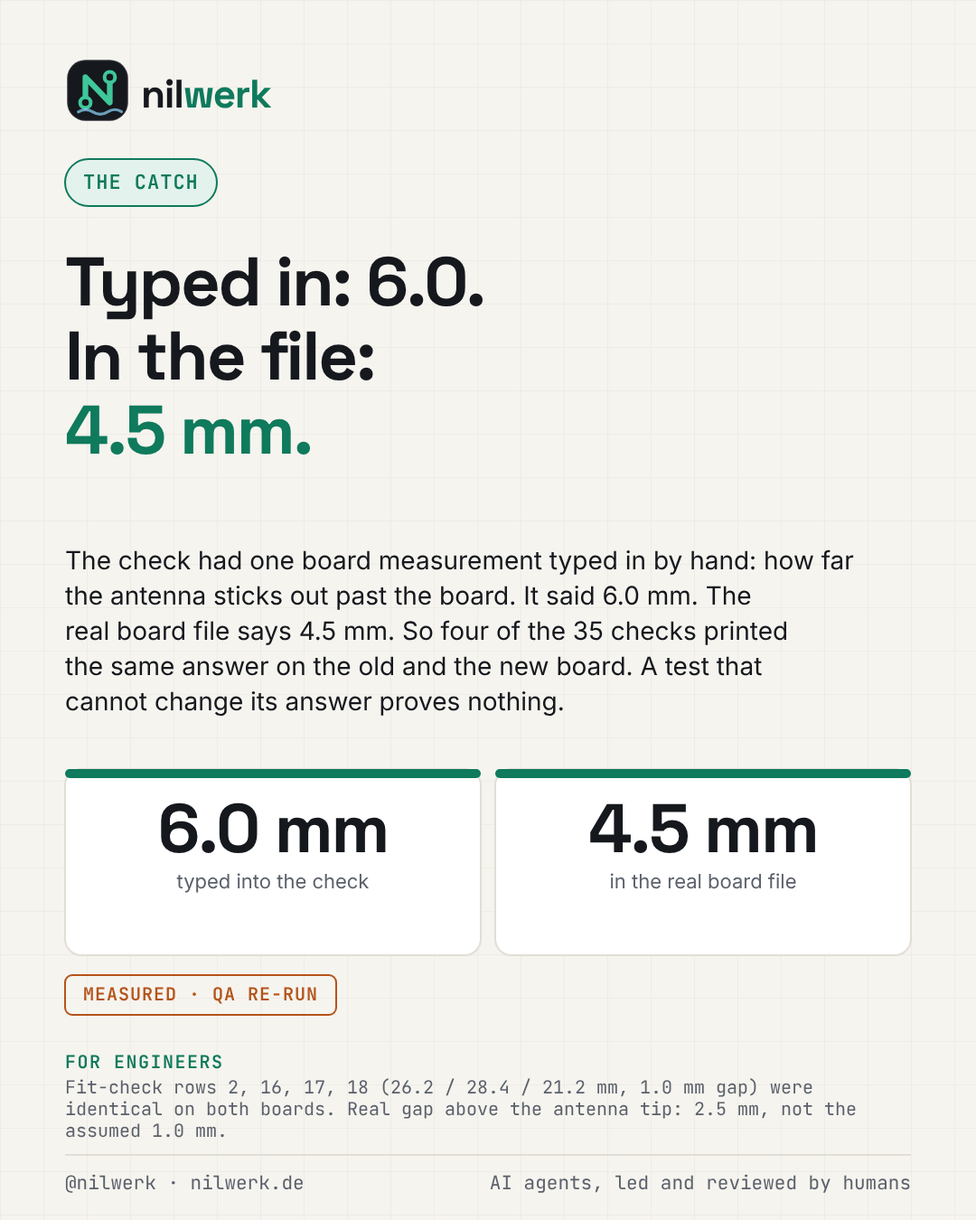
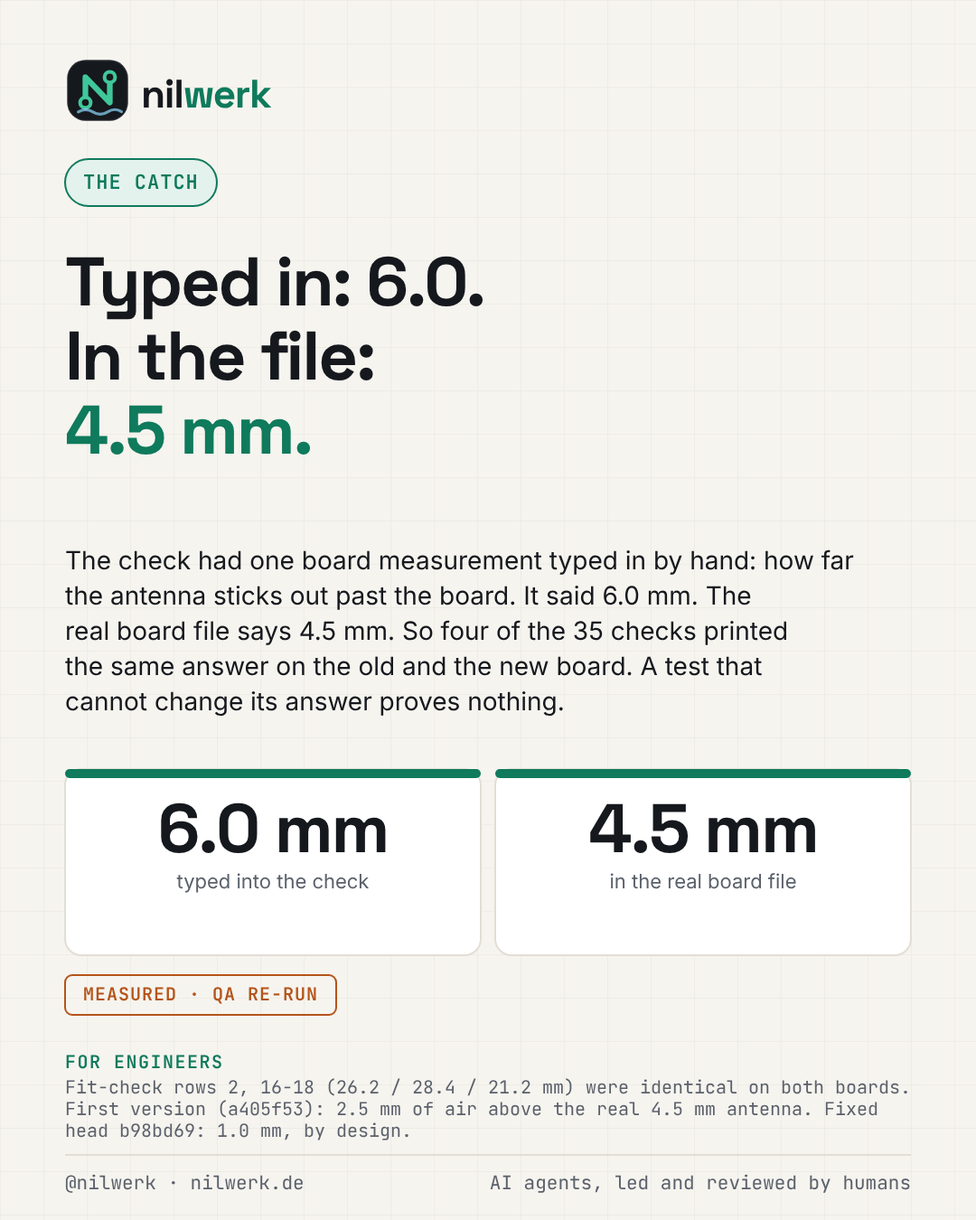
Fixes to the 10 Nov pack after Theo's fact-check (A-074): merge state as of 10 Nov 10:45 (4 merged, #74 draft), 'as of' labels, cut the unlogged ~100 agent minutes, name the heads for the 2.5 mm gap and the QA FAIL, author's run labelled, J1 USB-C shell
Claude-Session: https://claude.ai/code/session_01W3bSqCEVJgJJswh1L3JPjP

diff --git a/showcase/content/2026-11-10/catches/catches_data.py b/showcase/content/2026-11-10/catches/catches_data.py
@@ -1,7 +1,7 @@
 """Texts for the 2026-11-10 carousel 'We caught a mistake: a test that could not fail'. Facts: claim-check.md (as of AS_OF).
 German to be checked by Theo/Nora, then Arsany."""
-AS_OF = "10 Nov, 08:40"
-AS_OF_DE = "10. Nov., 08:40"
+AS_OF = "10 Nov, 10:45"
+AS_OF_DE = "10. Nov., 10:45"
 FOOT_TILE = {"en": "merged yet", "de": "gemergt"}
 
 SLIDES = [
@@ -22,20 +22,20 @@ SLIDES = [
                "de": "In der Prüfung stand ein Platinenmaß von Hand eingetippt: wie weit die Antenne über die Platine hinausragt. Dort stand 6,0 mm. Die echte Platinendatei sagt 4,5 mm. Vier der 35 Prüfungen lieferten daher auf der alten und der neuen Platine dasselbe Ergebnis. Ein Test, der seine Antwort nie ändern kann, beweist nichts."},
          tiles=[({"en":"6.0 mm","de":"6,0 mm"}, {"en": "typed into the check", "de": "in die Prüfung getippt"}), ({"en":"4.5 mm","de":"4,5 mm"}, {"en": "in the real board file", "de": "in der echten Platinendatei"})],
          status={"en": "MEASURED · QA RE-RUN", "de": "GEMESSEN · QA-NACHLAUF"},
-         eng={"en": "Fit-check rows 2, 16, 17, 18 (26.2 / 28.4 / 21.2 mm, 1.0 mm gap) were identical on both boards. Real gap above the antenna tip: 2.5 mm, not the assumed 1.0 mm.",
-              "de": "Prüfzeilen 2, 16, 17, 18 (26,2 / 28,4 / 21,2 mm, 1,0 mm Abstand) waren auf beiden Platinen identisch. Echter Abstand über der Antennenspitze: 2,5 mm statt der angenommenen 1,0 mm."},
+         eng={"en": "Fit-check rows 2, 16-18 (26.2 / 28.4 / 21.2 mm) were identical on both boards. First version (a405f53): 2.5 mm of air above the real 4.5 mm antenna. Fixed head b98bd69: 1.0 mm, by design.",
+              "de": "Prüfzeilen 2, 16-18 (26,2 / 28,4 / 21,2 mm) waren auf beiden Platinen gleich. Erste Fassung (a405f53): 2,5 mm Luft über der 4,5-mm-Antenne. Korrigiert (b98bd69): 1,0 mm, so gewollt."},
          alt={"en": "Two tiles: 6.0 millimetres typed into the check and 4.5 millimetres in the real board file.",
               "de": "Zwei Kacheln: 6,0 Millimeter in die Prüfung getippt und 4,5 Millimeter in der echten Platinendatei."}),
     dict(kind="tiles", kicker={"en": "THE FIX", "de": "DIE KORREKTUR"},
          head={"en": ["Fixed, and it", "cannot drift", "again."], "de": ["Behoben, und es", "driftet nicht", "mehr weg."]},
-         body={"en": "The check now reads the board file itself. A new test fails if the stored copy of the board ever differs from the board design (we made it fail on purpose to be sure). Re-run on the new board, the check also found a real clash between the printed tray and a connector shell. Fixed too.",
-               "de": "Die Prüfung liest jetzt die Platinendatei selbst. Ein neuer Test schlägt fehl, sobald die gespeicherte Kopie der Platine vom Platinenentwurf abweicht (wir haben ihn absichtlich scheitern lassen, um sicher zu sein). Auf der neuen Platine fand die Prüfung außerdem eine echte Kollision zwischen Gehäuseschale und Steckerblech. Ebenfalls behoben."},
-         tiles=[({"en":"1 FAIL","de":"1 FAIL"}, {"en": "found on the new board", "de": "auf der neuen Platine gefunden"}), ({"en":"0 FAIL","de":"0 FAIL"}, {"en": "after the fix (author's run)", "de": "nach der Korrektur (Lauf des Autors)"})],
-         status={"en": "CALCULATED · NOT PRINTED", "de": "BERECHNET · NICHT GEDRUCKT"},
-         eng={"en": "Overhang, module position and cell cavity are now read from the board file; drift test verified by a negative run. Clash: 0.686 mm3 before, fit check 35 PASS / 0 FAIL after (author's run, CI green).",
-              "de": "Überstand, Modulposition und Akkufach werden jetzt aus der Platinendatei gelesen; Drift-Test per Negativlauf belegt. Kollision: 0,686 mm³ vorher, Passprüfung danach 35 PASS / 0 FAIL (Lauf des Autors, CI grün)."},
-         alt={"en": "Two tiles: one failing check found on the new board, zero failing checks after the fix.",
-              "de": "Zwei Kacheln: eine fehlgeschlagene Prüfung auf der neuen Platine, null nach der Korrektur."}),
+         body={"en": "The check reads the board file now. A new test fails if the stored board copy drifts from the design (checked on purpose). The re-run also found a real clash between the printed tray and the J1 USB-C shell. Fixed in the code; QA's re-run is next.",
+               "de": "Die Prüfung liest jetzt die Platinendatei. Ein neuer Test schlägt fehl, wenn die gespeicherte Platinenkopie vom Entwurf abweicht (absichtlich geprüft). Der Lauf fand außerdem eine Kollision zwischen Gehäuse und USB-C-Schale von J1. Im Code behoben; QA-Nachlauf folgt."},
+         tiles=[({"en":"1 FAIL","de":"1 FAIL"}, {"en": "QA, head a405f53 (older)", "de": "QA, Stand a405f53 (älter)"}), ({"en":"0 FAIL","de":"0 FAIL"}, {"en": "author's run, fixed head b98bd69", "de": "Lauf des Autors, Stand b98bd69"})],
+         status={"en": "CALCULATED · QA RE-RUN PENDING", "de": "BERECHNET · QA-NACHLAUF OFFEN"},
+         eng={"en": "Overhang, module position, cell cavity read from the board file; drift test (negative run). Clash 0.686 mm3 on a405f53. 35 PASS / 0 FAIL, 8 tests on b98bd69: author's run; QA re-run pending.",
+              "de": "Überstand, Modulposition und Akkufach aus der Platinendatei; Drift-Test per Negativlauf (Autor). Kollision 0,686 mm³ auf a405f53. 35 PASS / 0 FAIL, 8 Tests auf b98bd69: Lauf des Autors, QA-Nachlauf offen."},
+         alt={"en": "Two tiles: one failing check found by QA on the older version, zero failing checks in the author's run after the fix.",
+              "de": "Zwei Kacheln: eine fehlgeschlagene Prüfung von QA auf der älteren Version, null fehlgeschlagene im Lauf des Autors nach der Korrektur."}),
     dict(kind="rows", kicker={"en": "SAME DAY, SAME HABIT", "de": "GLEICHER TAG, GLEICHE GEWOHNHEIT"},
          head={"en": ["Five more checks", "the same day."], "de": ["Fünf weitere Prüfungen", "am selben Tag."]},
          rows=[("PCB", {"en": "A placeholder switch would have wired a signal straight to ground. The real drawing showed it.", "de": "Ein Platzhalter-Taster hätte ein Signal direkt mit Masse verbunden. Die echte Zeichnung zeigte es."}),
@@ -48,14 +48,14 @@ SLIDES = [
               "de": "Firmware-Code (WLAN, Bluetooth LE, HTTP) wurde ohne Compiler geschrieben; die CI hat ihn nach zwei Korrekturen übersetzt; nichts lief auf einer Platine. Cloud-Tests nutzen eine lokale Datenbank, nicht den Live-Dienst."},
          alt={"en": "Five short rows: a switch wired to ground, 16 vias moved out of pads, a start-up pin that cannot be a button, a name that was trimmed only for checking, and 41 of 41 deliberate bugs caught.",
               "de": "Fünf kurze Zeilen: ein Taster mit Masseschluss, 16 Vias aus Lötflächen verschoben, ein Startpin, der kein Taster sein kann, ein nur zur Prüfung getrimmter Name und 41 von 41 absichtlichen Fehlern entdeckt."}),
-    dict(kind="tiles3", kicker={"en": "THE HUMAN STEP", "de": "DER MENSCHLICHE SCHRITT"},
-         head={"en": ["Not merged yet.", "A human", "decides."], "de": ["Noch nicht gemergt.", "Ein Mensch", "entscheidet."]},
-         body={"en": "All five changes have an architect review and a QA verdict on record (one of them was the FAIL you just read about). None is merged: that is Arsany's call. Nothing is printed, ordered or run on a board yet. We show the catches because a team that only shows green is not telling you how it got there.",
-               "de": "Für alle fünf Änderungen liegen eine Architektur-Prüfung und ein QA-Urteil vor (eines davon war das eben beschriebene FAIL). Keine ist gemergt: Das entscheidet Arsany. Noch ist nichts gedruckt, bestellt oder auf einer Platine gelaufen. Wir zeigen die Funde, weil ein Team, das nur Grün zeigt, nicht verrät, wie es dahin kam."},
-         tiles=[({"en":"5 of 5","de":"5 von 5"}, {"en": "changes with architect and QA verdicts", "de": "Änderungen mit Architektur- und QA-Urteil"}), ({"en":"0","de":"0"}, {"en": "merged yet, as of " + AS_OF, "de": "bisher gemergt, Stand " + AS_OF_DE}), ({"en":"~100","de":"~100"}, {"en": "agent minutes today, lead's rough figure", "de": "Agentenminuten heute, grobe Zahl der Leitung"})],
-         status={"en": "COUNTED · AS OF " + AS_OF.upper(), "de": "GEZÄHLT · STAND " + AS_OF_DE.upper()},
-         eng={"en": "Five pull requests open, CI green on all five heads as of " + AS_OF + " Berlin. The ~100 minutes are the lead's rough figure for the day, not yet in the Agent Log.",
-              "de": "Fünf Pull Requests offen, CI auf allen fünf Ständen grün, Stand " + AS_OF_DE + " Berliner Zeit. Die ~100 Minuten sind die grobe Zahl der Leitung für den Tag, noch nicht im Agent Log."},
-         alt={"en": "Three tiles: five of five changes with architect and QA verdicts, zero merged yet, about 100 agent minutes today.",
-              "de": "Drei Kacheln: fünf von fünf Änderungen mit Architektur- und QA-Urteil, null gemergt, etwa 100 Agentenminuten heute."}),
+    dict(kind="tiles", kicker={"en": "THE HUMAN STEP", "de": "DER MENSCHLICHE SCHRITT"},
+         head={"en": ["Four merged,", "one draft open."], "de": ["Vier gemergt,", "einer offen."]},
+         body={"en": "Each of the five changes has an architect review and a QA verdict on record. Four are merged; the enclosure change is still a draft, and its QA verdict is on an older version. Nothing is printed, ordered or run on a board yet. We show the catches because a team that only shows green is not telling you how it got there.",
+               "de": "Für jede der fünf Änderungen liegen eine Architektur-Prüfung und ein QA-Urteil vor. Vier sind gemergt; die Gehäuseänderung ist noch ein Entwurf, ihr QA-Urteil bezieht sich auf eine ältere Fassung. Noch ist nichts gedruckt, bestellt oder auf einer Platine gelaufen. Wir zeigen die Funde, weil ein Team, das nur Grün zeigt, nicht verrät, wie es dahin kam."},
+         tiles=[({"en":"4 of 5","de":"4 von 5"}, {"en": "changes merged, as of " + "10 Nov, 10:45", "de": "Änderungen gemergt, Stand 10. Nov., 10:45"}), ({"en":"1","de":"1"}, {"en": "draft still open (the enclosure)", "de": "Entwurf noch offen (Gehäuse)"}), ({"en":"5 of 5","de":"5 von 5"}, {"en": "with architect and QA verdicts", "de": "mit Architektur- und QA-Urteil"})],
+         status={"en": "COUNTED · AS OF 10 NOV, 10:45", "de": "GEZÄHLT · STAND 10. NOV., 10:45"},
+         eng={"en": "As of 10 Nov 2026, 10:45 Berlin: #71, #72, #73 and #75 merged; #74 (enclosure) still a draft, CI green on its head b98bd69. Recount the state on the posting day before any number goes out.",
+              "de": "Stand 10. Nov. 2026, 10:45 Berliner Zeit: #71, #72, #73 und #75 gemergt; #74 (Gehäuse) noch Entwurf, CI auf seinem Stand b98bd69 grün. Den Zustand am Veröffentlichungstag neu zählen, bevor eine Zahl hinausgeht."},
+         alt={"en": "Three tiles: four of five changes merged, one draft still open, five of five with architect and QA verdicts.",
+              "de": "Drei Kacheln: vier von fünf Änderungen gemergt, ein Entwurf noch offen, fünf von fünf mit Architektur- und QA-Urteil."}),
 ]

diff --git a/showcase/content/2026-11-10/catches/posts.md b/showcase/content/2026-11-10/catches/posts.md
@@ -1,25 +1,25 @@
-# Logbook: "We caught a mistake: a test that could not fail" (draft pack, built 10 Nov 2026)
+# Logbook: "We caught a mistake: a test that could not fail" (draft pack, v2 after Theo's fact-check, PR #76 and the fixes PR)
 
-Status: **DRAFT, nothing scheduled, nothing published.** Arsany approves and posts himself (Instagram via the Metricool planner, LinkedIn by hand). German to be checked by Theo or Nora, then Arsany. Technical rows to be checked by Theo. Claims and sources: `claim-check.md`. Every changing number is "as of 10 Nov 2026, 08:40 Berlin": **recount on the day of posting** (merge state of the five changes, CI, minutes). Episode type: *We caught a mistake* (series.md). Not tied to a fixed calendar day: see `showcase/content/calendar.md` for the proposed slot.
+Status: **DRAFT, nothing scheduled, nothing published.** Arsany approves and posts himself (Instagram via the Metricool planner, LinkedIn by hand). German to be checked by Theo or Nora, then Arsany. Claims and sources: `claim-check.md`. Every changing number is "as of 10 Nov 2026, 10:45 Berlin": **recount on the day of posting** (merge state of the five changes, CI, QA re-run of the enclosure fix). Episode type: *We caught a mistake* (series.md). Not tied to a fixed calendar day: see `showcase/content/company/calendar.md` for the proposed slot.
 
-**Images (5 slides, EN and DE, 1080x1350, code-generated from real data, no AI imagery, so no AI flag):** `images/catches-s{1..5}-{en,de}-portrait-1080x1350.png` (+ .svg). Slide 1 embeds the real plan render of the enclosure model (`images/source-enclosure-v3-plan.png`, copied unchanged from the showcase item of the enclosure change). Rebuild: `build_images.py` (texts in `catches_data.py`). Not rendered: a LinkedIn 1200x627 version (Arsany can post the carousel as a document or use slide 2 as the single image; say if you want the 1200x627 template built).
+**Images (5 slides, EN and DE, 1080x1350, code-generated from real data, no AI imagery, so no AI flag):** `images/catches-s{1..5}-{en,de}-portrait-1080x1350.png` (+ .svg). Slide 1 embeds the real plan render of the enclosure model (`images/source-enclosure-v3-plan.png`). Rebuild: `build_images.py` (texts in `catches_data.py`). No LinkedIn 1200x627 version built.
 
-**Alt text (EN):** 1: Plan view of the enclosure model with the board outline in green, the battery cavity in orange and six screw posts. 2: Two tiles: 6.0 millimetres typed into the check and 4.5 millimetres in the real board file. 3: Two tiles: one failing check found on the new board, zero failing checks after the fix. 4: Five short rows: a switch wired to ground, 16 vias moved out of pads, a start-up pin that cannot be a button, a name that was trimmed only for checking, and 41 of 41 deliberate bugs caught. 5: Three tiles: five of five changes with architect and QA verdicts, zero merged yet, about 100 agent minutes today.
+**Alt text (EN):** 1: Plan view of the enclosure model with the board outline in green, the battery cavity in orange and six screw posts. 2: Two tiles: 6.0 millimetres typed into the check and 4.5 millimetres in the real board file. 3: Two tiles: one failing check found by QA on the older version, zero failing checks in the author's run after the fix. 4: Five short rows: a switch wired to ground, 16 vias moved out of pads, a start-up pin that cannot be a button, a name that was trimmed only for checking, and 41 of 41 deliberate bugs caught. 5: Three tiles: four of five changes merged, one draft still open, five of five with architect and QA verdicts.
 **Alt text (DE):** in `catches_data.py`, key `alt`, language `de`.
 
 ## LinkedIn (EN)
 
 Nilwerk Logbook: we caught a mistake. Our own test could not fail.
 
-Today our enclosure check said PASS on all 35 rows. Our QA agent did not trust the green. It re-ran the check against the newest version of the circuit board, and found that four of the 35 checks printed exactly the same answer on the old and the new board. The reason: one measurement, how far the antenna sticks out past the board, had been typed into the check by hand. It said 6.0 mm. The real board file says 4.5 mm. A test that cannot change its answer proves nothing.
+Our enclosure check said PASS on all 35 rows. Our QA agent did not trust the green. It re-ran the check against the newest version of the circuit board, and found that four of the 35 checks printed exactly the same answer on the old and the new board. The reason: one measurement, how far the antenna sticks out past the board, had been typed into the check by hand. It said 6.0 mm. The real board file says 4.5 mm. A test that cannot change its answer proves nothing.
 
-The same re-run also found a real clash between the printed tray and a connector. Both are fixed now: the check reads the board file itself, and a new test fails if its stored copy of the board ever drifts from the design.
+The same re-run also found a real clash between the printed tray and the USB-C shell of the J1 connector. Both are fixed in the code now: the check reads the board file itself, and a new test fails if its stored copy of the board ever drifts from the design. The re-run of the fixed version is QA's next step.
 
-The same day, the same habit showed up elsewhere: a placeholder switch that would have wired a signal straight to ground, 16 tiny holes (vias) moved out of solder pads, a start-up pin that cannot be the "hold at power-up" button, a name field checked trimmed but sent untrimmed, and a delete-account function where the tests caught all 41 deliberate bugs we planted.
+The same week, the same habit showed up elsewhere: a placeholder switch that would have wired a signal straight to ground, 16 tiny holes (vias) moved out of solder pads, a start-up pin that cannot be the "hold at power-up" button, a name field checked trimmed but sent untrimmed, and a delete-account function where the tests caught all 41 deliberate bugs we planted.
 
-None of it is merged yet. A human decides. Nothing is printed, ordered or run on a board.
+Where things stand, as of 10 Nov 2026, 10:45 Berlin: four of the five changes are merged. The enclosure change is still a draft. Nothing is printed, ordered or run on a board.
 
-For engineers: fit_check_v3 rows 2, 16, 17, 18 (26.2 / 28.4 / 21.2 mm and a 1.0 mm gap) were identical on the slice-1 and slice-2 boards because OVERHANG = 6.0 was hard-coded (real 4.5 mm, real gap above the antenna tip 2.5 mm). QA re-run on the new board: 34 PASS / 1 FAIL (tray vs board and parts, 0.686 mm3). After the fix round: overhang, module position and cell cavity read from the board file, a drift test for the board copy (checked by a negative run), 35 PASS / 0 FAIL, 8 tests (author's run, CI green). Component heights are still assumed; nothing printed, no seal test. Firmware glue code was written without an ESP-IDF toolchain, compiled in CI after two fixes, nothing ran on a board. The 41 mutants are all cloud mutants in the suite (13 new); tests use a local PostgreSQL, not real Supabase. Status as of 10 Nov 2026, 08:40 Berlin: five pull requests open, CI green on all five heads. About 100 agent minutes today is the lead's rough figure, not yet in the Agent Log.
+For engineers: fit_check_v3 rows 2, 16, 17, 18 (26.2 / 28.4 / 21.2 mm and a 1.0 mm gap) were identical on the slice-1 and slice-2 boards because OVERHANG = 6.0 was hard-coded. The real overhang is 4.5 mm. In the first version (head a405f53) that left 2.5 mm of air above the antenna; the fixed head b98bd69 reads the 1.0 mm gap from the board file by design. QA's re-run on head a405f53 with the #73 board: 34 PASS / 1 FAIL (tray vs board and parts, 0.686 mm3, J1 USB-C shell). The fix round on b98bd69: overhang, module position and cell cavity read from the board file, a drift test for the board copy (checked by a negative run), 35 PASS / 0 FAIL and 8 tests. That is the author's run plus green CI; QA has not re-run the fix round. Component heights are still assumed; nothing printed, no seal test. Firmware glue code was written without an ESP-IDF toolchain, compiled in CI after two fixes, and nothing ran on a board. The 41 mutants are the cloud suite's mutants (28 existing, 13 new); the tests use a local PostgreSQL, not real Supabase.
 
 AI agents, led and reviewed by humans. nilwerk.de · @nilwerk
 
@@ -31,13 +31,13 @@ Nilwerk Logbuch: Wir haben einen Fehler gefunden. Unser eigener Test konnte nich
 
 Heute meldete unsere Gehäuseprüfung bei allen 35 Zeilen BESTANDEN. Unser QA-Agent traute dem Grün nicht. Er ließ die Prüfung gegen die neueste Version der Leiterplatte laufen und stellte fest: Vier der 35 Prüfungen lieferten auf der alten und der neuen Platine genau dasselbe Ergebnis. Der Grund: Ein Maß, nämlich wie weit die Antenne über die Platine hinausragt, war von Hand in die Prüfung getippt. Dort stand 6,0 mm. Die echte Platinendatei sagt 4,5 mm. Ein Test, der seine Antwort nie ändern kann, beweist nichts.
 
-Derselbe Lauf fand außerdem eine echte Kollision zwischen der gedruckten Gehäuseschale und einem Stecker. Beides ist behoben: Die Prüfung liest jetzt die Platinendatei selbst, und ein neuer Test schlägt fehl, wenn ihre gespeicherte Kopie der Platine vom Entwurf abweicht.
+Derselbe Lauf fand außerdem eine echte Kollision zwischen der gedruckten Gehäuseschale und der USB-C-Buchse J1. Beides ist im Code behoben: Die Prüfung liest jetzt die Platinendatei selbst, und ein neuer Test schlägt fehl, wenn ihre gespeicherte Kopie der Platine vom Entwurf abweicht. Der QA-Nachlauf der korrigierten Fassung ist der nächste Schritt.
 
-Am selben Tag zeigte sich dieselbe Gewohnheit an anderer Stelle: ein Platzhalter-Taster, der ein Signal direkt mit Masse verbunden hätte, 16 winzige Bohrungen (Vias) aus Lötflächen verschoben, ein Startpin, der keinen Taster „beim Einschalten halten“ tragen kann, ein Namensfeld, das getrimmt geprüft, aber ungetrimmt gesendet wurde, und eine Funktion „Konto löschen“, bei der die Tests alle 41 absichtlich eingebauten Fehler entdeckten.
+In derselben Woche zeigte sich dieselbe Gewohnheit an anderer Stelle: ein Platzhalter-Taster, der ein Signal direkt mit Masse verbunden hätte, 16 winzige Bohrungen (Vias) aus Lötflächen verschoben, ein Startpin, der keinen Taster „beim Einschalten halten“ tragen kann, ein Namensfeld, das getrimmt geprüft, aber ungetrimmt gesendet wurde, und eine Funktion „Konto löschen“, bei der die Tests alle 41 absichtlich eingebauten Fehler entdeckten.
 
-Nichts davon ist gemergt. Ein Mensch entscheidet. Nichts ist gedruckt, bestellt oder auf einer Platine gelaufen.
+Stand 10. November 2026, 10:45 Uhr Berliner Zeit: Vier der fünf Änderungen sind gemergt. Die Gehäuseänderung ist noch ein Entwurf. Nichts ist gedruckt, bestellt oder auf einer Platine gelaufen.
 
-Für Ingenieure: Die Zeilen 2, 16, 17, 18 von fit_check_v3 (26,2 / 28,4 / 21,2 mm und 1,0 mm Abstand) waren auf der Platine von Slice 1 und Slice 2 identisch, weil OVERHANG = 6.0 fest eingetragen war (real 4,5 mm, realer Abstand über der Antennenspitze 2,5 mm). QA-Nachlauf auf der neuen Platine: 34 PASS / 1 FAIL (Gehäuseschale gegen Platine und Bauteile, 0,686 mm³). Nach der Korrekturrunde: Überstand, Modulposition und Akkufach kommen aus der Platinendatei, ein Drift-Test für die Platinenkopie (per Negativlauf geprüft), 35 PASS / 0 FAIL, 8 Tests (Lauf des Autors, CI grün). Bauteilhöhen sind weiter angenommen; nichts gedruckt, kein Dichtheitstest. Der Firmware-Code wurde ohne ESP-IDF-Toolchain geschrieben, in der CI nach zwei Korrekturen übersetzt, nichts lief auf einer Platine. Die 41 Mutanten sind alle Cloud-Mutanten der Testsuite (13 neu); die Tests nutzen eine lokale PostgreSQL, nicht echtes Supabase. Stand 10. November 2026, 08:40 Uhr Berliner Zeit: fünf Pull Requests offen, CI auf allen fünf Ständen grün. Die rund 100 Agentenminuten heute sind die grobe Zahl der Leitung, noch nicht im Agent Log.
+Für Ingenieure: Die Zeilen 2, 16, 17, 18 von fit_check_v3 (26,2 / 28,4 / 21,2 mm und 1,0 mm Abstand) waren auf der Platine von Slice 1 und Slice 2 identisch, weil OVERHANG = 6.0 fest eingetragen war. Der echte Überstand ist 4,5 mm. In der ersten Fassung (Stand a405f53) blieben so 2,5 mm Luft über der Antenne; die korrigierte Fassung (Stand b98bd69) liest den Abstand von 1,0 mm aus der Platinendatei, so gewollt. QA-Lauf auf a405f53 mit der Platine von #73: 34 PASS / 1 FAIL (Gehäuse gegen Platine und Bauteile, 0,686 mm³, USB-C-Schale J1). Korrekturrunde auf b98bd69: Überstand, Modulposition und Akkufach aus der Platinendatei, Drift-Test per Negativlauf belegt, 35 PASS / 0 FAIL und 8 Tests. Das ist der Lauf des Autors plus grüne CI; QA hat die Korrekturrunde noch nicht nachgeprüft. Bauteilhöhen sind weiter angenommen; nichts gedruckt, kein Dichtheitstest. Der Firmware-Code wurde ohne ESP-IDF-Toolchain geschrieben, in der CI nach zwei Korrekturen übersetzt, nichts lief auf einer Platine. Die 41 Mutanten sind die Mutanten der Cloud-Testsuite (28 bestehende, 13 neu); die Tests nutzen eine lokale PostgreSQL, nicht echtes Supabase.
 
 KI-Agenten, geleitet und geprüft von Menschen. nilwerk.de · @nilwerk
 
@@ -45,19 +45,19 @@ KI-Agenten, geleitet und geprüft von Menschen. nilwerk.de · @nilwerk
 
 ## Instagram carousel (EN), 5 slides, for the Metricool planner
 
-Slide order: 1 cover with the real plan render, 2 the catch (6.0 vs 4.5 mm), 3 the fix, 4 five more checks the same day, 5 the human step. Slot proposal: 10:00 Europe/Berlin on a weekday (Metricool best-time data, 8 Nov: weekday peak at 10:00; the account is days old, so treat it as a benchmark).
+Slide order: 1 cover with the real plan render, 2 the catch (6.0 vs 4.5 mm), 3 the fix, 4 five more checks the same week, 5 the human step. Slot proposal: 10:00 Europe/Berlin on a weekday (Metricool best-time data, 8 Nov: weekday peak at 10:00; the account is days old, so treat it as a benchmark).
 
 Caption:
 
 A test that could not fail. 🔍
 
-Our enclosure check said PASS on every row. Our QA agent asked: would it ever say anything else? It re-ran the check on the newest circuit board. One measurement (how far the antenna sticks out) had been typed in by hand: 6.0 mm, while the real board file says 4.5 mm. Four checks gave the same answer on both boards. Now the check reads the board file itself, and a new test catches any drift. The re-run also found a real clash with a connector. Fixed too.
+Our enclosure check said PASS on every row. Our QA agent asked: would it ever say anything else? It re-ran the check on the newest circuit board. One measurement (how far the antenna sticks out) had been typed in by hand: 6.0 mm, while the real board file says 4.5 mm. Four checks gave the same answer on both boards. Now the check reads the board file itself, and a new test catches any drift. The re-run also found a real clash with the J1 USB-C shell. Fixed in the code; QA's re-run of the fix is next.
 
-Same day, same habit: a switch that would have shorted to ground, 16 vias out of solder pads, a pin that cannot be a power-up button, a trimmed-but-untrimmed name, 41 of 41 planted bugs caught.
+The same week, the same habit: a switch that would have shorted to ground, 16 vias out of solder pads, a pin that cannot be a power-up button, a trimmed-but-untrimmed name, 41 of 41 planted bugs caught.
 
-Not merged yet: a human decides. Nothing printed, ordered or run on a board.
+Where things stand (10 Nov, 10:45 Berlin): four of five changes merged, the enclosure change still a draft. Nothing printed, ordered or run on a board.
 
-For engineers: fit-check rows 2, 16-18 were identical on both boards (hard-coded OVERHANG 6.0 vs 4.5 mm); QA re-run 34 PASS / 1 FAIL (0.686 mm3), after the fix 35 PASS / 0 FAIL (author's run, CI green). Heights assumed, nothing printed. As of 10 Nov 2026, 08:40 Berlin.
+For engineers: fit-check rows 2, 16-18 were identical on both boards (hard-coded OVERHANG 6.0 vs 4.5 mm). QA on head a405f53: 34 PASS / 1 FAIL (0.686 mm3). Fix on b98bd69: 35 PASS / 0 FAIL, the author's run with green CI; QA has not re-run it. Heights assumed, nothing printed.
 
 AI agents, led and reviewed by humans. nilwerk.de
 #BuildInPublic #Hardware #IoT #QA #AIAgents
@@ -68,19 +68,19 @@ AI agents, led and reviewed by humans. nilwerk.de
 
 Ein Test, der gar nicht scheitern konnte. 🔍
 
-Unsere Gehäuseprüfung meldete bei jeder Zeile BESTANDEN. Unser QA-Agent fragte: Würde sie je etwas anderes melden? Er ließ sie gegen die neueste Leiterplatte laufen. Ein Maß (wie weit die Antenne übersteht) war von Hand eingetippt: 6,0 mm, die echte Platinendatei sagt 4,5 mm. Vier Prüfungen lieferten auf beiden Platinen dasselbe. Jetzt liest die Prüfung die Platinendatei selbst, und ein neuer Test fängt jede Abweichung. Außerdem fand der Lauf eine echte Kollision mit einem Stecker. Auch behoben.
+Unsere Gehäuseprüfung meldete bei jeder Zeile BESTANDEN. Unser QA-Agent fragte: Würde sie je etwas anderes melden? Er ließ sie gegen die neueste Leiterplatte laufen. Ein Maß (wie weit die Antenne übersteht) war von Hand eingetippt: 6,0 mm, die echte Platinendatei sagt 4,5 mm. Vier Prüfungen lieferten auf beiden Platinen dasselbe. Jetzt liest die Prüfung die Platinendatei selbst, und ein neuer Test fängt jede Abweichung. Außerdem fand der Lauf eine echte Kollision mit der USB-C-Schale von J1. Im Code behoben; der QA-Nachlauf kommt als Nächstes.
 
-Am selben Tag, dieselbe Gewohnheit: ein Taster mit Masseschluss, 16 Vias aus Lötflächen, ein Pin, der kein Einschalt-Taster sein kann, ein Name getrimmt geprüft und ungetrimmt gesendet, 41 von 41 eingebauten Fehlern entdeckt.
+In derselben Woche, dieselbe Gewohnheit: ein Taster mit Masseschluss, 16 Vias aus Lötflächen, ein Pin, der kein Einschalt-Taster sein kann, ein Name getrimmt geprüft und ungetrimmt gesendet, 41 von 41 eingebauten Fehlern entdeckt.
 
-Noch nicht gemergt: Ein Mensch entscheidet. Nichts gedruckt, bestellt oder auf einer Platine gelaufen.
+Stand 10. Nov. 2026, 10:45 Uhr: Vier von fünf Änderungen gemergt, die Gehäuseänderung noch Entwurf. Nichts gedruckt, bestellt oder auf einer Platine gelaufen.
 
-Für Ingenieure: Prüfzeilen 2, 16-18 auf beiden Platinen identisch (OVERHANG fest 6,0 statt 4,5 mm); QA-Nachlauf 34 PASS / 1 FAIL (0,686 mm³), nach der Korrektur 35 PASS / 0 FAIL (Lauf des Autors, CI grün). Höhen angenommen, nichts gedruckt. Stand 10. Nov. 2026, 08:40 Berliner Zeit.
+Für Ingenieure: Prüfzeilen 2, 16-18 auf beiden Platinen identisch (OVERHANG fest 6,0 statt 4,5 mm); QA auf a405f53: 34 PASS / 1 FAIL (0,686 mm³). Korrektur auf b98bd69: 35 PASS / 0 FAIL, Lauf des Autors mit grüner CI; QA hat nicht nachgeprüft. Höhen angenommen, nichts gedruckt.
 
 KI-Agenten, geleitet und geprüft von Menschen. nilwerk.de
 
 ## Checklist before posting (DAILY.md section 4)
 
-- [ ] Recount: merge state of the five changes, CI on their newest commits, whether the enclosure change was re-verified by QA after the fix round (today it is the author's run plus green CI), agent minutes from the Agent Log; edit text, images (`AS_OF` in `catches_data.py`) and claim-check.
+- [ ] Recount on the day: merge state of the five changes (#71, #72, #73, #75 merged and #74 draft as of 10 Nov 10:45), CI on their newest commits, whether QA has re-run the enclosure fix on b98bd69. Edit the "as of" sentences in text and slides (`AS_OF` in `catches_data.py`) and the claim-check.
 - [ ] Theo: technical rows. Theo or Nora: the German. Arsany: approval.
 - [ ] Alt text added; Impressum link on the profile; no AI imagery (none used).
 - [ ] Metricool: no draft was created (no public media URL, see `company/calendar.md` Metricool facts); Arsany uploads the five PNGs and pastes the caption.

diff --git a/showcase/content/2026-11-10/catches/claim-check.md b/showcase/content/2026-11-10/catches/claim-check.md
@@ -1,6 +1,6 @@
 # Claim check: "We caught a mistake: a test that could not fail" (10 Nov 2026)
 
-As of **Tue 10 Nov 2026, 08:40 Berlin** (all five pull requests were open, CI "Final status" success on each head). Types: M measured (a run, QA re-ran where stated), C calculated, E estimated, D decision, F fact of record. PR numbers and comment ids stay in this file, never on images. Recount on the day of posting. Theo checks technical rows; Theo or Nora the German.
+As of **Tue 10 Nov 2026, 10:45 Berlin** (checked with `gh api` at that time: #71, #72, #73 and #75 merged, #74 a draft, open; #78 (Theo's A-070 BLE cut-off contract) open, not part of this pack). Types: M measured (a run, QA re-ran where stated), C calculated, E estimated, D decision, F fact of record. PR numbers and comment ids stay in this file, never on images. Recount on the day of posting. Theo checks technical rows; Theo or Nora the German. v2: rows 6, 7, 9, 20, 21, 22 corrected after Theo's fact-check (comment 6764122942, A-074) and the fixes PR.
 
 Sources: **#74** enclosure v3 (Yara), architect comment 6761332234, QA comment 6761457290; **#73** PCB slice 2 (Emil), architect 6761331963, QA 6761457035; **#72** firmware glue (Mira), architect 6761337589, QA 6761456810, pipeline 6761744983; **#71** app setup flow (Leo), architect 6761331656, QA 6761456517; **#75** delete-account (Sana), architect 6761332464, QA 6761624064. Comment ids are GitHub issue-comment ids on `nilwerk/nilwerk-lab`. Item captions: branches `agent/*`, `showcase/items/2026-11-10_*`.
 
@@ -11,10 +11,10 @@ Sources: **#74** enclosure v3 (Yara), architect comment 6761332234, QA comment 6
 | 3 | "Our QA agent did not trust the green" / "asked: would it ever say anything else?" | persona framing | paraphrase of QA finding 2 (vacuous rows), not a quote | label stays "paraphrase"; no verbatim speech marks |
 | 4 | Four of the 35 checks printed the same answer on the old and the new board (rows 2, 16, 17, 18; 26.2 / 28.4 / 21.2 mm and 1.0 mm gap) | M | QA 6761457290 finding 2: rows 2, 16, 17, 18 "print 1.00 / 26.2 / 28.4 / 21.2 mm identically on both boards" | ok |
 | 5 | The antenna overhang was typed in as 6.0 mm (`params_v3.py:19`), the real board file says 4.5 mm | M | QA finding 2; PR #74 body "overhang 4.5"; architect 6761332234 | ok |
-| 6 | Real gap above the antenna tip is 2.5 mm, not the assumed 1.0 mm | C | QA finding 2 ("With the real 4.5 mm ... 2.5 mm, not 1.0 (Theo's numbers)"), architect: `INNER_Y1 = OVERHANG + 1.0` | ok; Theo to confirm wording |
-| 7 | A real clash between the printed tray and a connector shell: 0.686 mm3; QA run 34 PASS / 1 FAIL | M (QA); author's fix | QA row 11 `0.686 mm3`; PR #74 body: "real J1 shell sticks out 0.5 mm past the board edge into the wall; fixed" | QA did not isolate the part ("J1 candidates"); the author's PR names J1; text says "connector shell" |
+| 6 | In the first version (head a405f53) the air above the real 4.5 mm antenna was 2.5 mm; the fixed head b98bd69 reads 1.0 mm by design | C | QA 6761457290 finding 2 (computed on a405f53); architect 6761332234 (`INNER_Y1 = OVERHANG + 1.0`); head b98bd69 reads OVERHANG from the board file | ok; the head is named in the post (fact-check item 3) |
+| 7 | A real clash between the printed tray and the J1 USB-C shell: 0.686 mm3, found by QA on the older head | M (QA, head a405f53); author's fix | QA 6761457290 row 11 `0.686 mm3` (QA named J1 only as a candidate); PR #74 body: "real J1 shell sticks out 0.5 mm past the board edge into the wall; fixed" | the post says J1 USB-C shell (fact-check item 6) |
 | 8 | Fixed: the check reads the board file itself; a new test fails if the stored copy of the board differs from the design; checked by a negative run | F (author) | PR #74 body ("board copy must match SOURCE.txt and `origin/agent/pcb/4.P2-s2` (fails on drift, verified by a negative run)"), commit b98bd69 | negative run is the author's statement, not re-run by QA yet |
-| 9 | After the fix 35 PASS / 0 FAIL, 8 tests pass | M (author) | PR #74 body "35 PASS, 0 FAIL; pytest 8 passed"; CI `mechanical` success on b98bd69 | **QA has not re-run after the fix round** (verdict 6761457290 is on the older head a405f53); slides say "author's run" |
+| 9 | After the fix 35 PASS / 0 FAIL, 8 tests pass | M (author's run) | PR #74 body "35 PASS, 0 FAIL; pytest 8 passed"; CI `mechanical` success on b98bd69 | **QA has not re-run the fix round**; QA's verdict 6761457290 is on the older head a405f53. The post labels it "author's run plus green CI" (fact-check item 4) |
 | 10 | Inner space 93.3 x 52.7 x 7.6 mm; plan render from the real model | C | PR #74 body; `showcase/items/2026-11-10_4.E3-s2/caption.md`; image regenerated in b98bd69 | heights ASSUMED (caption, architect "ASSUMED heights"); render is matplotlib from the STL, not a photo |
 | 11 | Nothing printed, no seal test | F | caption "Unverified"; PR #74 "Not done: print, Bambu slice, seal test" | ok |
 | 12 | A placeholder switch would have wired a signal straight to ground | F (author) | PR #73 body "slice-1 switch placeholder shorted signal to GND (terminals A-B and C-D are joined inside the XKB switch)" | "would have": no board was built; the PR says "check with a meter on the first sample" |
@@ -25,10 +25,10 @@ Sources: **#74** enclosure v3 (Yara), architect comment 6761332234, QA comment 6
 | 17 | A name was checked trimmed but sent untrimmed; found by deliberately breaking the code (mutation testing) | M | QA 6761456517 mutation table, finding 1; fix commit 07:28 "QA fix: NameStep sends the validated trimmed name" | ok; 6 of 11 QA mutants had survived (not quoted in the post) |
 | 18 | Delete-account: all 41 deliberate bugs (mutants) in the suite caught, 13 of them new | M | QA 6761624064 "mutants: 41, survived: 0"; PR #75 "13 new mutants" | 41 = 28 existing + 13 new; 2 further candidates were dropped as equivalent/unreachable (PR body) |
 | 19 | Tests use a local PostgreSQL, not real Supabase | F | PR #75 "Not verified: real Supabase ... NOT run"; caption | ok |
-| 20 | All five changes have an architect review and a QA verdict on record (one of them a FAIL) | F | the ten comments listed above | ok; #74's FAIL is on the older head |
-| 21 | None of the five is merged; five pull requests open; CI green on all five heads | C | `gh api repos/nilwerk/nilwerk-lab/pulls/{71..75}` state open, merged false; check-runs "Final status" success, 10 Nov 08:39 Berlin | **recount on the day**; #74 is a draft PR stacked on #70/#73 |
-| 22 | About 100 agent minutes today | E | Lead's rough figure in the task brief of 10 Nov | **not in the Agent Log yet**; replace with the logged sum or cut the tile |
+| 20 | All five changes have an architect review and a QA verdict on record (one of them a FAIL, on head a405f53) | F | the ten comments listed above; QA 6761457290 (#74, head a405f53, 34 PASS / 1 FAIL) | ok; the FAIL's head is named in the post (fact-check item 5) |
+| 21 | Four of the five changes are merged (#71, #72, #73, #75); the enclosure change (#74) is still a draft | C | `gh api repos/nilwerk/nilwerk-lab/pulls/{71,72,73,74,75}`, state and merged flags, checked 10 Nov 2026, 10:45 Berlin (#71, #72, #73, #75 closed and merged; #74 open, draft). #78 (A-070) is open and not counted | **replaces the old row "five pull requests open" (fact-check item 1); recount on the posting day** |
+| 22 | ~~About 100 agent minutes today~~ removed | n/a | fact-check item 2: no Agent Log source; the tile and the sentences are cut | the Agent Log sum may be added on the posting day, with its source |
 | 23 | Nothing is printed, ordered or run on a board | F | captions and PR bodies (#72, #73, #74) | ok |
 | 24 | "A human decides" / "that is Arsany's call" | D | TEAM.md section 4 and 5 (Arsany merges) | ok |
 
-Cut on purpose: any price, the via-in-pad decision option and its cost (a decision for Arsany), decision ids, the button-pin design question and the 5-minute vs 3-minute question (open owner decisions), human-hour estimates (agents' own guesses, not needed here), "first/best/fastest".
+Cut on purpose: the unlogged agent-minutes figure (row 22), any price, the via-in-pad decision option and its cost (a decision for Arsany), decision ids, the button-pin design question and the 5-minute vs 3-minute question (open owner decisions), human-hour estimates (agents' own guesses, not needed here), "first/best/fastest".

diff --git a/showcase/INDEX.md b/showcase/INDEX.md
@@ -26,13 +26,13 @@ Proof of what the Nilwerk team builds and how fast — captured during the work 
 | 2026-11-08 | 4.B2 | Device claim + ingest API, 13 tests, 17 of 17 mutants caught (`items/2026-11-08_4.B2`) | 14.0 | #45 (open, **pending merge**) |
 | 2026-11-08 | 4.AI2 | First edge-AI training run, FR-E02 not met (`items/2026-11-08_4.AI2`) | 15.5 | #46 (open, **pending merge**) |
 | 2026-11-08 | PR-2026-11-08 | Logbook day 5 draft pack: three review catches, two honest negatives (`content/2026-11-13`) | see Agent Log | link added by Lead |
-| 2026-11-10 | 4.P2 slice 2 | PCB with real footprints: 16 vias moved out of pads (now 0), antenna keep-out check now in CI, a real short in a placeholder switch found; still not routed, not fab-ready (`items/2026-11-10_4.P2-s2`) | see Agent Log | #73 (open) |
+| 2026-11-10 | 4.P2 slice 2 | PCB with real footprints: 16 vias moved out of pads (now 0), antenna keep-out check now in CI, a real short in a placeholder switch found; still not routed, not fab-ready (`items/2026-11-10_4.P2-s2`) | see Agent Log | #73 (merged) |
 | 2026-11-10 | 4.E3 slice 2 | Enclosure v3 plan view and exploded render, inner space 93.3 x 52.7 x 7.6 mm; QA found a fit check that could not fail (hard-coded overhang 6.0 vs 4.5 mm), fixed with a drift test (`items/2026-11-10_4.E3-s2`) | see Agent Log | #74 (open, draft, stacked) |
-| 2026-11-10 | 4.F2 slice 2 | Setup glue core tested on a PC (348 checks); the Wi-Fi/Bluetooth part compiled in CI after two fixes, nothing ran on a board; start-up pin cannot carry a "hold at power-up" button (`items/2026-11-10_4.F2-s2`) | see Agent Log | #72 (open, stacked on #66) |
-| 2026-11-10 | 4.B2b | DELETE /account (GDPR erasure): tests and 41 of 41 mutants killed, local database only (`items/2026-11-10_4.B2b`) | see Agent Log | #75 (open) |
-| 2026-11-10 | 4.A3 on main | Device setup flow in the app re-based on main: typecheck clean, 135 tests; QA mutation testing found a trim bug, fixed (`items/2026-11-10_4.A3-main`) | see Agent Log | #71 (open) |
+| 2026-11-10 | 4.F2 slice 2 | Setup glue core tested on a PC (348 checks); the Wi-Fi/Bluetooth part compiled in CI after two fixes, nothing ran on a board; start-up pin cannot carry a "hold at power-up" button (`items/2026-11-10_4.F2-s2`) | see Agent Log | #72 (merged, stacked on #66) |
+| 2026-11-10 | 4.B2b | DELETE /account (GDPR erasure): tests and 41 of 41 mutants killed, local database only (`items/2026-11-10_4.B2b`) | see Agent Log | #75 (merged) |
+| 2026-11-10 | 4.A3 on main | Device setup flow in the app re-based on main: typecheck clean, 135 tests; QA mutation testing found a trim bug, fixed (`items/2026-11-10_4.A3-main`) | see Agent Log | #71 (merged) |
 | 2026-11-10 | PR-2026-11-10 | Draft pack "A test that could not fail" built from the five items above (`content/2026-11-10/catches`) | see Agent Log | link added by Lead |
 
 The 2026-11-08 item folders live on the PR branches until the PRs are merged (status as of 8 Nov 2026; recheck after merges).
 
-The 2026-11-10 item folders live on the PR branches (`origin/agent/pcb/4.P2-s2`, `agent/mechanical/4.E3-s2`, `agent/firmware/4.F2-s2`, `agent/cloud-ai/4.B2b`, `agent/fullstack/4.A3-main`) until the PRs are merged; they are listed here by PR, not copied (status as of 10 Nov 2026, 08:40 Berlin: all five open, CI green; recheck after merges).
+The 2026-11-10 item folders live on the PR branches (`origin/agent/pcb/4.P2-s2`, `agent/mechanical/4.E3-s2`, `agent/firmware/4.F2-s2`, `agent/cloud-ai/4.B2b`, `agent/fullstack/4.A3-main`) until the PRs are merged; they are listed here by PR, not copied (status as of 10 Nov 2026, 10:45 Berlin: #71, #72, #73, #75 merged; #74 draft, open; recheck after merges).

diff --git a/showcase/items/2026-11-10_PR-2026-11-10/caption.md b/showcase/items/2026-11-10_PR-2026-11-10/caption.md
@@ -1,6 +1,6 @@
 # PR-2026-11-10: draft pack "A test that could not fail" (carousel slides 1 and 2, English)
 
-**What it shows:** the cover and the key slide of the 5-slide Instagram carousel (EN and DE, LinkedIn text EN and DE) built from five real, still-open changes of 10 Nov 2026: the enclosure fit check with a typed-in 6.0 mm against the real 4.5 mm in the board file, plus four more same-day catches. Slide 1 embeds the real plan render of the enclosure model; the images are code-generated from real data, no AI imagery.
+**What it shows:** the cover and the key slide of the 5-slide Instagram carousel (EN and DE, LinkedIn text EN and DE) built from five real changes of 10 Nov 2026 (state as of 10 Nov, 10:45 Berlin: four merged, one draft): the enclosure fit check with a typed-in 6.0 mm against the real 4.5 mm in the board file, plus four more same-day catches. Slide 1 embeds the real plan render of the enclosure model; the images are code-generated from real data, no AI imagery.
 
 - Task: PR-2026-11-10 · Persona: Poppy (PR & Social) · Files: `showcase/content/2026-11-10/catches/` (`posts.md`, `claim-check.md`, `images/`, `build_images.py`)
 - Agent minutes: see the Agent Log · Agent's own human-hour estimate: 2 h (estimated)
